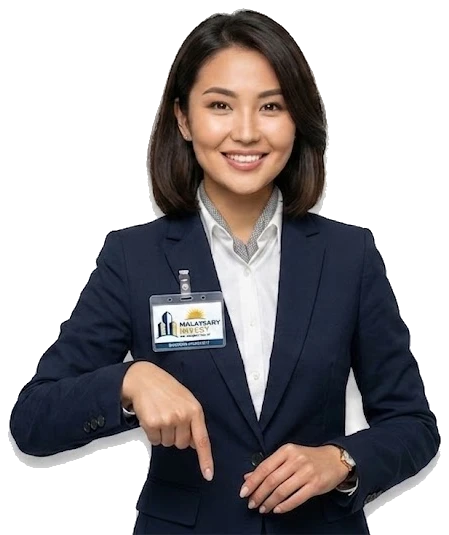
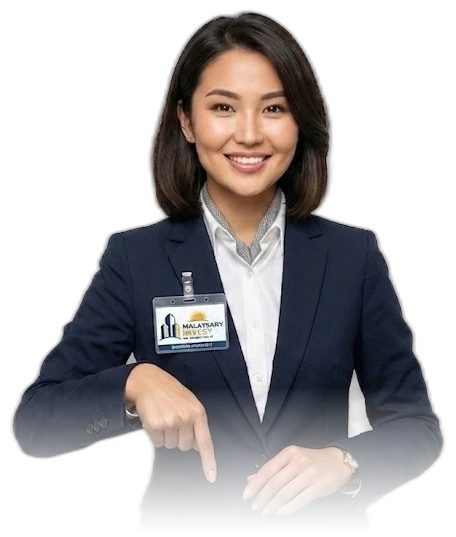
fix: обновить размеры элементов и улучшить адаптивность в компоненте ConsultationBanner, а также заменить изображение на новый формат .webp

diff --git a/components/ConsultationBanner.tsx b/components/ConsultationBanner.tsx
@@ -12,11 +12,11 @@ export default function ConsultationBanner() {
         <RevealOnView variant="zoom" delay={200}>
           <div className="relative overflow-hidden rounded-[32px] border border-bone/10 bg-ink-panel">
             <div className="flex flex-col items-center md:flex-row md:items-end">
-              <div className="relative z-10 w-[210px] shrink-0 pt-6 sm:w-[240px] md:w-[300px] md:pt-6 lg:w-[340px]">
+              <div className="relative z-10 w-[230px] shrink-0 pt-6 sm:w-[260px] md:w-[300px] md:pt-6 lg:w-[340px]">
                 <img
                   src="/consult-character-down.webp"
                   alt=""
-                  className="mx-auto block h-auto w-full select-none object-contain object-bottom md:hidden"
+                  className="mx-auto -mb-10 block h-auto w-full select-none object-contain object-bottom [mask-image:linear-gradient(to_bottom,black_72%,transparent)] md:hidden"
                   draggable={false}
                 />
                 <img
@@ -27,7 +27,7 @@ export default function ConsultationBanner() {
                 />
               </div>
 
-              <div className="relative z-10 flex flex-1 flex-col items-center justify-center gap-7 px-8 pb-10 pt-6 text-center sm:px-12 md:py-12">
+              <div className="relative z-10 flex flex-1 flex-col items-center justify-center gap-7 px-8 pb-10 pt-2 text-center sm:px-12 md:py-12 md:pt-12">
                 <div className="max-w-md">
                   <h3 className="font-display text-xl font-semibold leading-tight text-bone sm:text-2xl">
                     {t("consult.title")}
